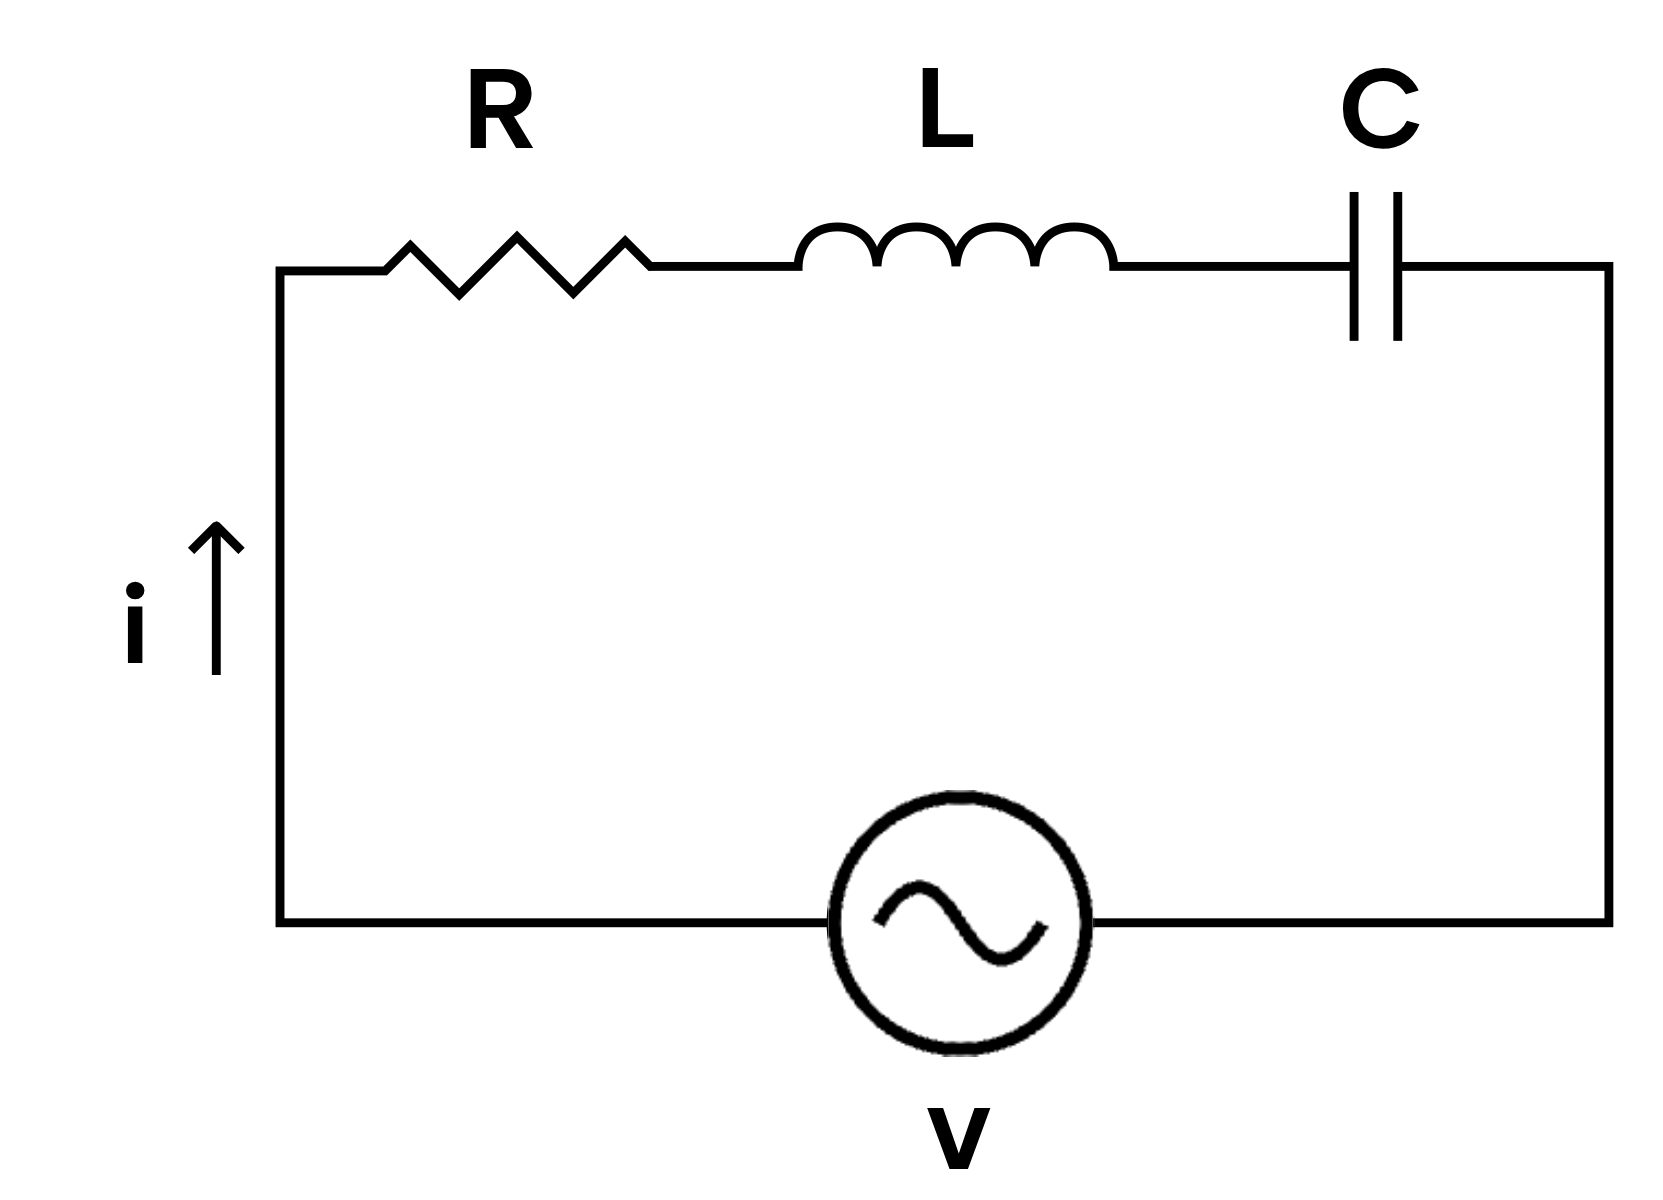
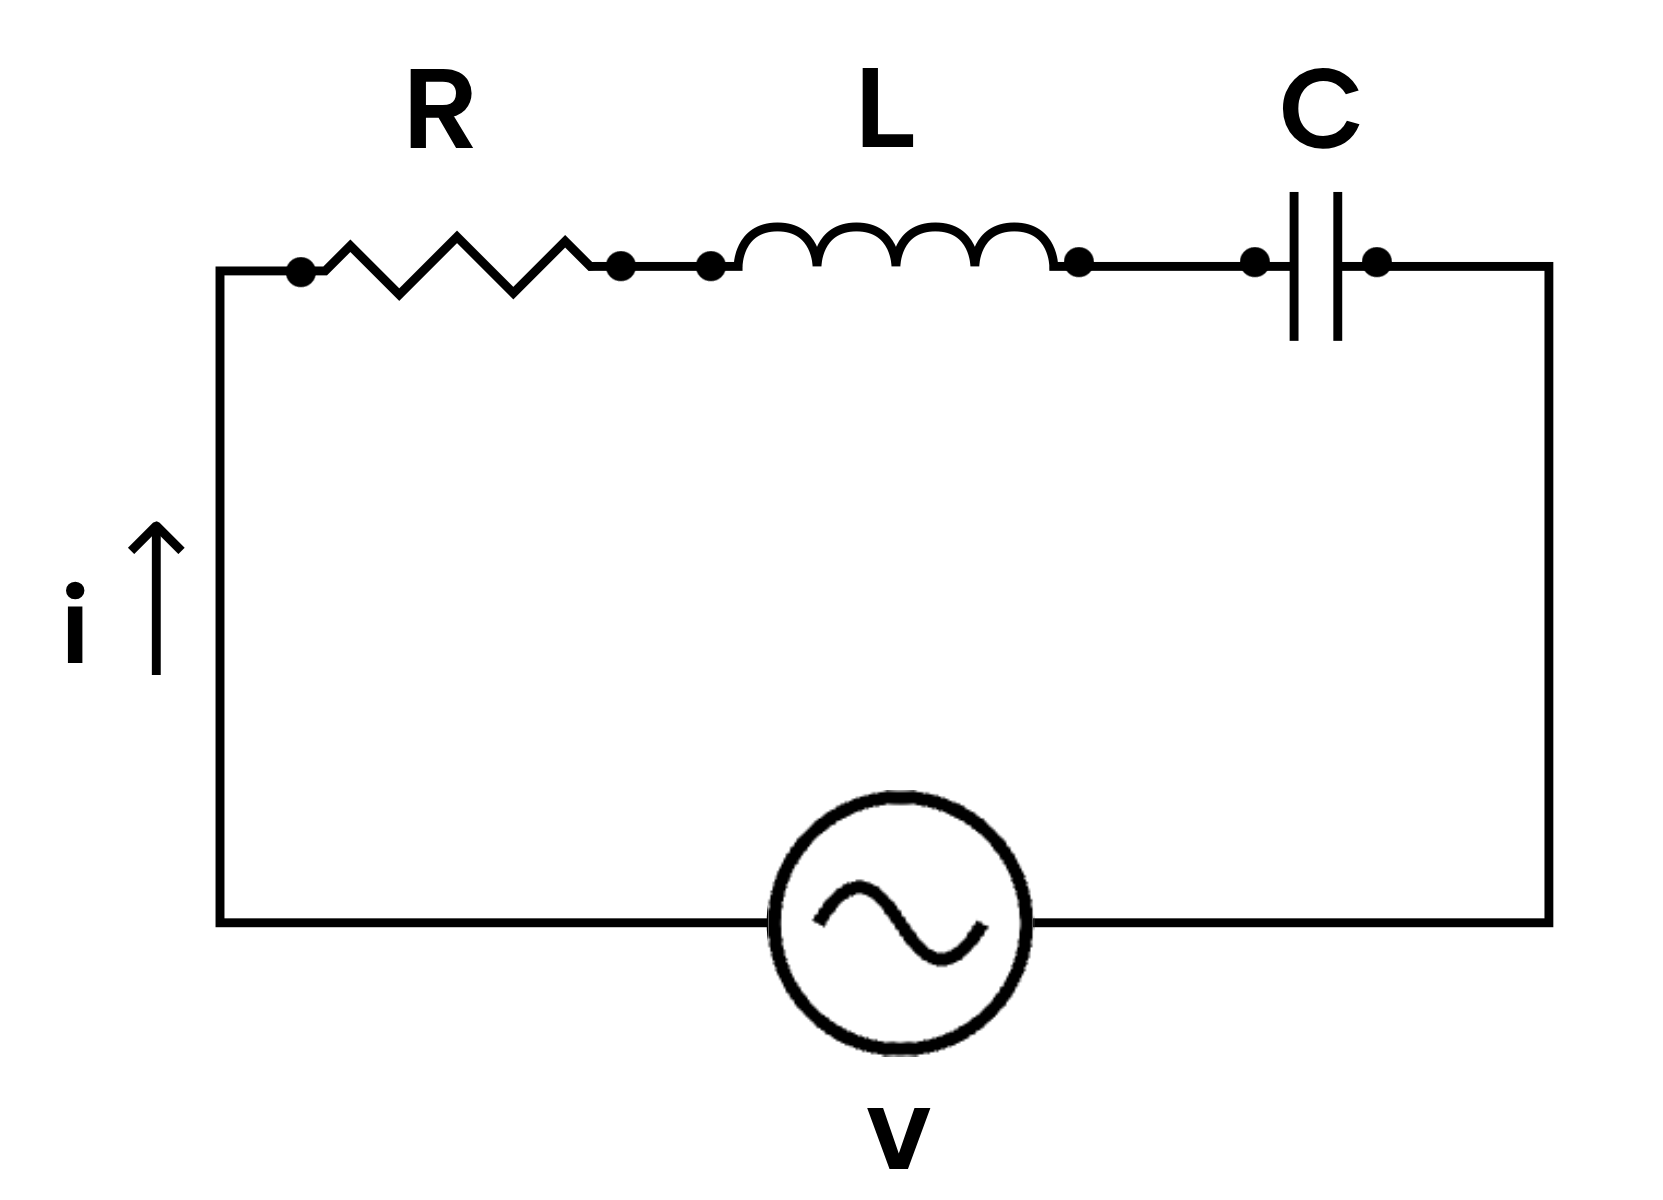
V2.5.3 - Imágenes de pinza para osciloscopio

diff --git a/pages/rlc/index.html b/pages/rlc/index.html
@@ -160,43 +160,78 @@
 
         <div
           id="info"
-          class="text-center flex flex-col lg:flex-row items-center justify-center"
+          class="text-center flex flex-col items-center justify-center"
         >
-          <!--Inicio imagen circuito RLC -->
           <div
-            class="content-center justify-center items-center flex flex-col mt-8"
-            id="circuito"
+            id="info2"
+            class="text-center flex flex-col lg:flex-row items-center justify-center max-w-screen-lg"
           >
-            <img
-              src="../../src/media/RLC_light.png"
-              class="h-md w-md ml-4 flex dark:hidden justify-center"
-              alt="Circuito RLC estándar"
-            />
-            <img
-              src="../../src/media/RLC_dark.png"
-              class="h-sm w-sm hidden justify-self-center dark:flex mr-8"
-              alt="Circuito RLC estándar"
-            />
+            <!--Inicio imagen circuito RLC -->
+            <div
+              class="content-center justify-center items-center flex flex-col mt-8"
+              id="circuito"
+            >
+              <img
+                src="../../src/media/RLC_light.png"
+                class="h-sm w-sm flex dark:hidden justify-center"
+                alt="Circuito RLC estándar"
+              />
+              <img
+                src="../../src/media/RLC_dark.png"
+                class="h-sm w-sm hidden justify-self-center dark:flex"
+                alt="Circuito RLC estándar"
+              />
+            </div>
+            <!--Fin imagen RLC-->
+
+            <div class="flex-col ml-2 max-w-xl mt-4" id="info-instrucciones">
+              <p class="dark:text-white text-slate-950 text-3xl font-bold">
+                Instrucciones:
+              </p>
+
+              <p class="dark:text-white text-slate-950 text-lg mt-2">
+                Introduzca los parámetros deseados y haga click en
+                <strong class="text-utn-regular">"Configurar circuito"</strong>.
+                Para cambiar los valores, deberá clickear nuevamente en
+                "Configurar circuito" con los nuevos valores. <br /><br />
+                Para obtener los valores de resonancia sin modificar los
+                parámetros, haga click en
+                <strong class="text-utn-regular">"Obtener resonancia"</strong>.
+              </p>
+            </div>
           </div>
-          <!--Fin imagen RLC-->
+          <div
+            id="info3"
+            class="text-center flex flex-col lg:flex-row items-center justify-center max-w-screen-lg"
+          >
+            <!--Inicio imagen bornera RLC -->
+            <div
+              class="content-center justify-center items-center flex flex-col mt-4"
+              id="pinzas_img"
+            >
+              <img
+                src="../../src/media/pinzas_light.png"
+                class="h-sm w-sm flex dark:hidden justify-center"
+                alt="Pinzas de osciloscopio colocadas en paralelo a una resistencia"
+              />
+              <img
+                src="../../src/media/pinzas_dark.png"
+                class="h-sm w-sm hidden justify-self-center dark:flex"
+                alt="Pinzas de osciloscopio colocadas en paralelo a una resistencia"
+              />
+            </div>
+            <!--Fin imagen bornera RLC-->
 
-          <div class="flex-col ml-2 max-w-xl" id="info-instrucciones">
-            <p class="dark:text-white text-slate-950 text-3xl font-bold">
-              Instrucciones:
-            </p>
-
-            <p class="dark:text-white text-slate-950 text-lg mt-2">
-              Introduzca los parámetros deseados y haga click en
-              <strong class="text-utn-regular">"Configurar circuito"</strong>.
-              Para cambiar los valores, deberá clickear nuevamente en
-              "Configurar circuito" con los nuevos valores. <br /><br />
-              Para obtener los valores de resonancia sin modificar los
-              parámetros, haga click en
-              <strong class="text-utn-regular">"Obtener resonancia"</strong>.
-              Haga click en
-              <strong class="text-utn-regular">"Encender osciloscopio"</strong>
-              para visualizar el diagrama fasorial.
-            </p>
+            <div class="flex-col ml-2 max-w-xl lg:pl-8" id="info-3">
+              <p class="dark:text-white text-slate-950 text-lg">
+                Haga click en
+                <strong class="text-utn-regular"
+                  >"Encender osciloscopio"</strong
+                >
+                para visualizar el diagrama fasorial. Puede visualizar las
+                tensiones de cada componente al seleccionar los canales.
+              </p>
+            </div>
           </div>
         </div>
 
@@ -601,22 +636,6 @@
                   >CHANNEL 3</span
                 >
               </label>
-
-              <label class="inline-flex items-center cursor-pointer mt-4">
-                <input
-                  type="checkbox"
-                  name="chanel4"
-                  id="chanel4"
-                  class="sr-only peer"
-                />
-                <div
-                  class="relative w-11 h-6 bg-gray-200 peer-focus:outline-none peer-focus:ring-4 peer-focus:ring-amber-500 rounded-full peer dark:bg-gray-700 peer-checked:after:translate-x-full rtl:peer-checked:after:-translate-x-full peer-checked:after:border-white after:content-[''] after:absolute after:top-[2px] after:start-[2px] after:bg-white after:border-gray-300 after:border after:rounded-full after:h-5 after:w-5 after:transition-all dark:border-gray-600 peer-checked:bg-amber-500"
-                ></div>
-                <span
-                  class="ms-3 text-sm text-nowrap font-medium text-gray-900 dark:text-gray-300"
-                  >CHANNEL 4</span
-                >
-              </label>
             </div>
             <div
               id="restart"
@@ -631,7 +650,11 @@
                   class="cursor-pointer mt-4"
                 />
               </a>
-              <p class="text-center font-semibold text-xl mt-2">Reiniciar</p>
+              <p
+                class="dark:text-white text-slate-950 text-center font-semibold text-xl mt-2"
+              >
+                Reiniciar
+              </p>
             </div>
             <!--Fin de botonera osciloscopio-->
           </div>

diff --git a/pages/rlc/script.js b/pages/rlc/script.js
@@ -767,9 +767,8 @@ class RLCSimulator {
     const ch1 = document.getElementById("chanel1").checked;
     const ch2 = document.getElementById("chanel2").checked;
     const ch3 = document.getElementById("chanel3").checked;
-    const ch4 = document.getElementById("chanel4").checked;
 
-    const { omega, Ipeak, VR, VL, VC, V0, phi } = values;
+    const { omega, Ipeak, VR, VL, VC, V0 } = values;
 
     // Configuración de la gráfica
     const width = canvas.width;
@@ -830,20 +829,12 @@ class RLCSimulator {
 
     // Dibujar las ondas
     if (ch1) {
-      drawWave(
-        amplitude * (Ipeak / Math.max(Ipeak, V0 / 50)),
-        0,
-        "#3498db",
-        "i(t)"
-      );
-    }
-    if (ch2) {
       drawWave(amplitude * (VR / V0), 0, "#e74c3c", "vR(t)");
     }
-    if (ch3) {
+    if (ch2) {
       drawWave(amplitude * (VL / V0), Math.PI / 2, "#27ae60", "vL(t)");
     }
-    if (ch4) {
+    if (ch3) {
       drawWave(amplitude * (VC / V0), -Math.PI / 2, "#f39c12", "vC(t)");
     }
 
